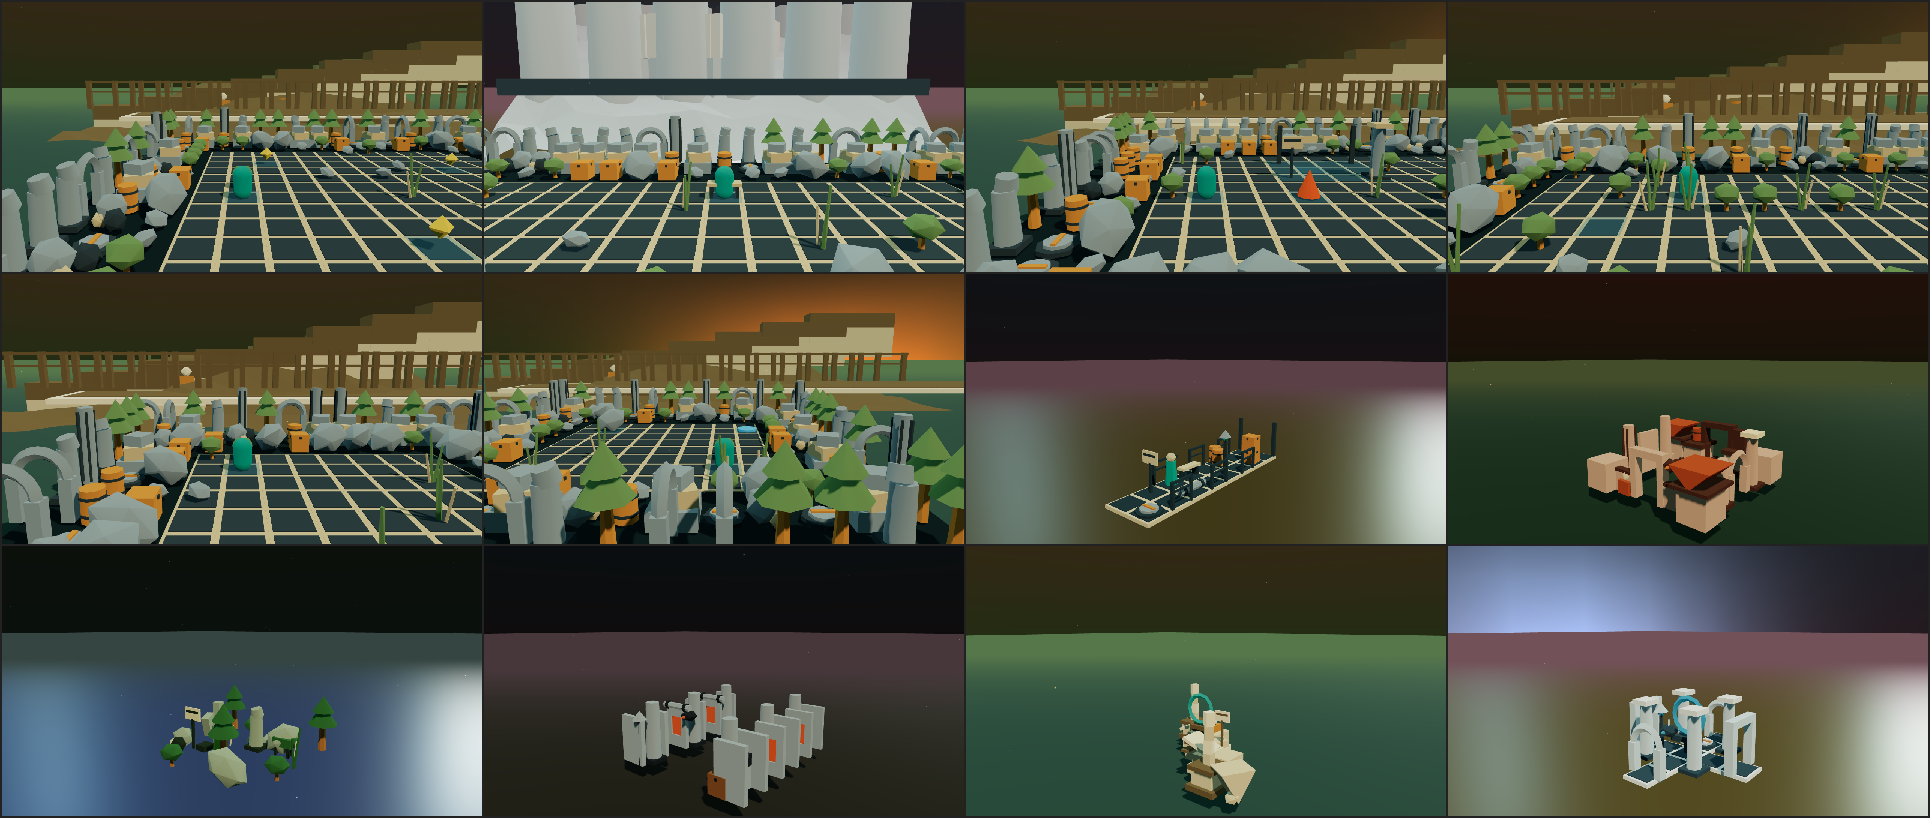
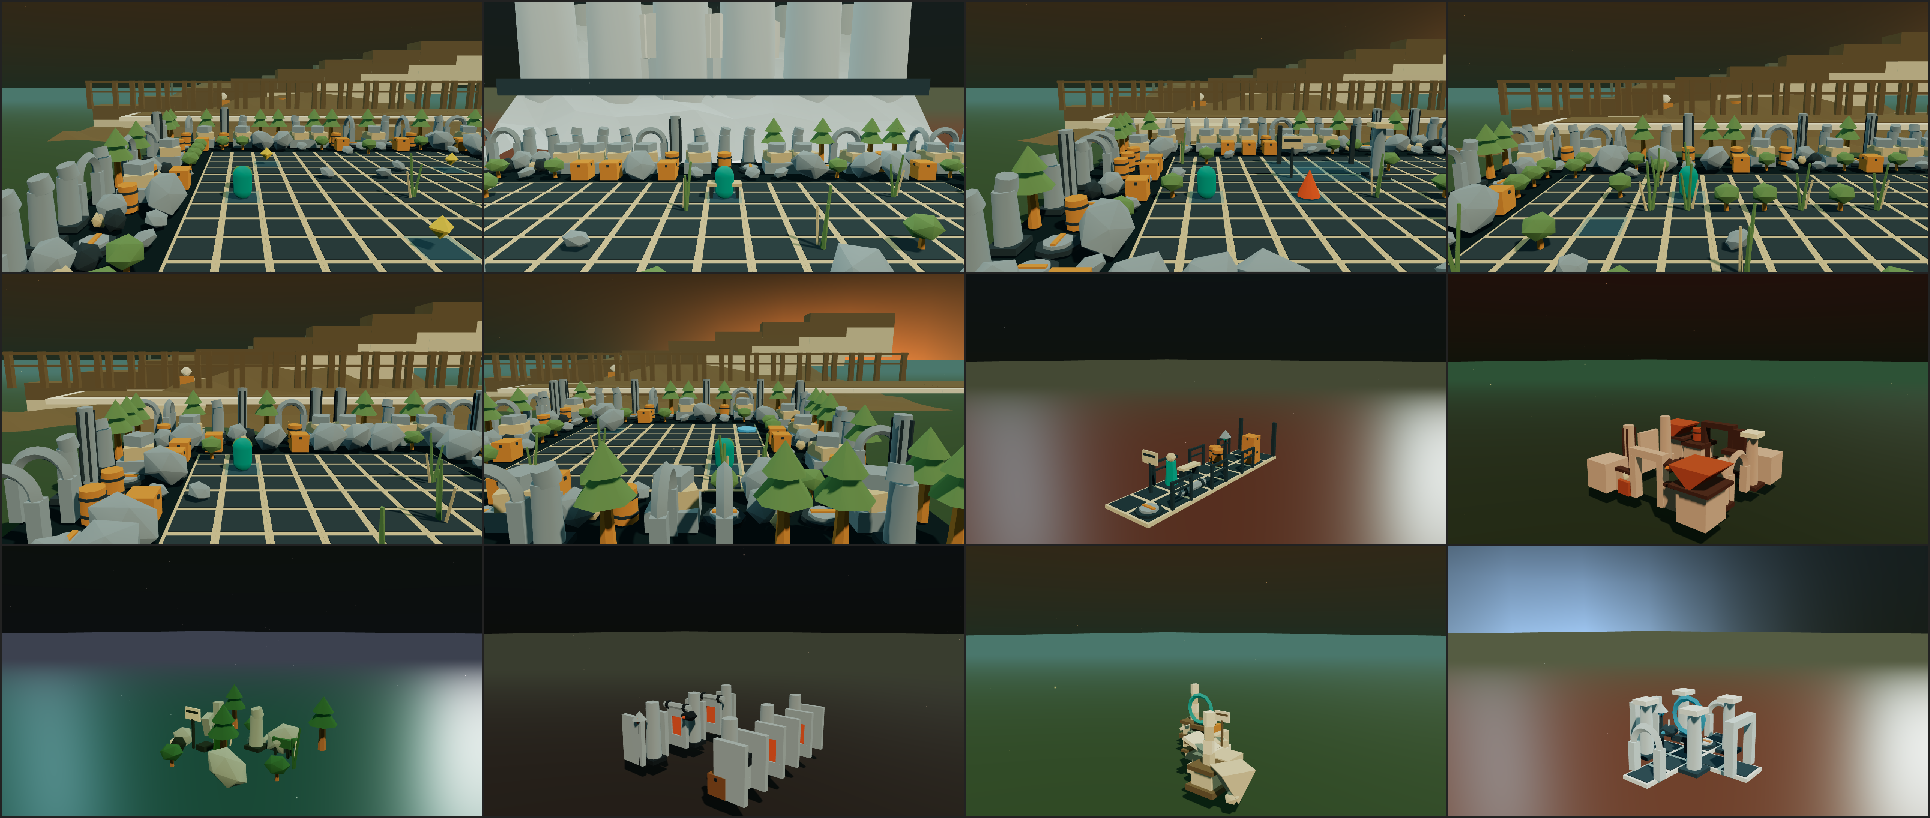
fix(look): keep the repair clear of plum, not just of purple
PURPLE_BAND (250-320) je zakaz pro cely repozitar. Oprava barvu ale sama vyrabi, a skoro sedou: sytost tlaci na ~0.22. Kos 11 (stred 345) je pri plne sytosti karmin, pri 0.22 zaprasena svestkova.

Videt na docs/contact-sheet.png: harbor-pier a foundry-hall mely pres tretinu snimku siroky sericovy pruh oparu. Proslo to PURPLE_BAND i vsemi peti prahy soudce - zadny stroj v repu to nemeri.

Prstenec se tim zuzil z devíti kosu na osm a rozestup barev spadl na 8.0, tedy na prah. Prohledano vsech patnact dvojic kroku: opar +4 / plocha +2 drzi 60 stupnu a dava 17.

diff --git a/src/worldstream/look-repair.ts b/src/worldstream/look-repair.ts
@@ -160,10 +160,27 @@ export function bucketCentre(bucket: number): number {
 }
 
 /**
- * Prstenec košů, do kterých oprava smí mířit — dvanáct minus ty, jejichž střed
- * padne do fialového pásma.
+ * Odstíny, na které oprava mířit nesmí — **širší pásmo než zákaz fialové**.
  *
- * **Počítá se, neopisuje se.** Kdyby tu stál ručně napsaný seznam devíti čísel,
+ * `PURPLE_BAND` (250–320°) je zákaz platný pro celý repozitář a soudí barvu
+ * jakoukoliv. Tohle pásmo je navíc a patří jen opravě, protože oprava barvu
+ * nejen posuzuje, ale sama vyrábí — a vyrábí ji **skoro šedou**: sytost tlačí
+ * na `minSaturation * MARGIN`, tedy kolem 0,22. Odstín 345° je při plné
+ * sytosti karmín, při 0,22 je to zaprášená švestková.
+ *
+ * **Naměřeno okem 29. 8. 2026 na `docs/contact-sheet.png`:** dokud tu koš 11
+ * (střed 345°) byl, měly `harbor-pier` a `foundry-hall` přes třetinu snímku
+ * široký šeříkový pruh oparu. Prošlo to `PURPLE_BAND` i všemi pěti prahy
+ * soudce — je to vlastnost, kterou žádný stroj v tomhle repu neměří, a
+ * porušovalo to barevné pravidlo projektu. Pásmo proto sahá až na konec kola.
+ */
+const REPAIR_HUE_BAN = { min: PURPLE_BAND.min, max: 360 } as const;
+
+/**
+ * Prstenec košů, do kterých oprava smí mířit — dvanáct minus ty, jejichž střed
+ * padne do zakázaného pásma.
+ *
+ * **Počítá se, neopisuje se.** Kdyby tu stál ručně napsaný seznam osmi čísel,
  * rozšíření `PURPLE_BAND` by ho nechalo být a oprava by fialovou vyrobila na
  * cestě, kterou nikdo ručně nepíše a nikdo se na ni nedívá.
  */
@@ -172,7 +189,7 @@ export const ALLOWED_HUE_BUCKETS: readonly number[] = Array.from(
   (_unused, bucket) => bucket,
 ).filter((bucket) => {
   const centre = bucketCentre(bucket);
-  return centre < PURPLE_BAND.min || centre > PURPLE_BAND.max;
+  return centre < REPAIR_HUE_BAN.min || centre > REPAIR_HUE_BAN.max;
 });
 
 /**
@@ -198,7 +215,12 @@ export const ALLOWED_HUE_BUCKETS: readonly number[] = Array.from(
  * kotvy rušily.
  *
  * **Která ze dvou zbylých ploch bere jeden krok a která dva, na rozestupu nic
- * nemění**; co mění, je pořadí pák, a to je naměřené (viz níž).
+ * nemění — na barvě snímku ano.** Naměřeno 29. 8. 2026 přes všech patnáct
+ * dvojic kroků a všech patnáct dvojic ze šesti palet: opar o **dva** kroky
+ * dál než plocha pod obzorem drží nejhorší dvojici na 9,9, opačné přiřazení
+ * na 8,8. Rozestup 60° splňuje obojí, takže se to nedá odvodit, jen změřit.
+ *
+ * Co jde odvodit, je pořadí pák, a to je naměřené zvlášť (viz níž).
  */
 export const HUE_STEP_BUCKETS = 2;
 
@@ -409,7 +431,7 @@ function hueAnchorsFor(skyColor: string): { sky: number; fog: number; floor: num
   const at = (steps: number) =>
     bucketCentre(ALLOWED_HUE_BUCKETS[(start + steps) % ALLOWED_HUE_BUCKETS.length]!);
 
-  return { sky: at(0), fog: at(HUE_STEP_BUCKETS), floor: at(HUE_STEP_BUCKETS * 2) };
+  return { sky: at(0), fog: at(HUE_STEP_BUCKETS * 2), floor: at(HUE_STEP_BUCKETS) };
 }
 
 /** Index nejbližšího povoleného koše, měřeno po kruhu odstínů. */

diff --git a/src/worldstream/__tests__/look-repair.test.ts b/src/worldstream/__tests__/look-repair.test.ts
@@ -241,20 +241,28 @@ describe('fialová se neopraví ani omylem', () => {
     }
   });
 
-  it('prstenec fialové koše vynechává, nezmenšuje se o ně jen počtem', () => {
-    // Mutace, kterou tenhle test zabíjí: prstenec sestavený jako `slice(0, 9)`
-    // má taky devět prvků a taky projde testem nad středy — ale vypustí koš 11
-    // (345°, ta nejteplejší červeň) a jeden fialový si nechá.
-    const purple = Array.from({ length: 360 / HUE_BUCKET_WIDTH }, (_unused, b) => b).filter((b) => {
-      const centre = bucketCentre(b);
-      return centre >= PURPLE_BAND.min && centre <= PURPLE_BAND.max;
-    });
-    expect(purple.length, 'fialové pásmo nepokrývá žádný koš, test nic neměří').toBeGreaterThan(0);
-    expect([...ALLOWED_HUE_BUCKETS].sort((a, b) => a - b)).toEqual(
-      Array.from({ length: 360 / HUE_BUCKET_WIDTH }, (_unused, b) => b).filter(
-        (b) => !purple.includes(b),
-      ),
-    );
+  it('prstenec sahá až po fialovou a ani o koš míň', () => {
+    // Dvě mutace naráz. Kdyby se prstenec jen usekl na počet, prošel by test
+    // nad středy taky — a kdyby se usekl o koš navíc, přišla by oprava o odstín,
+    // který jí nikdo nezakázal, a světy by se sbíhaly rychleji.
+    //
+    // Meze se **nečtou z modulu**, jsou napsané tady znovu: test, který si
+    // hranici půjčí od kódu, potvrdí každou hranici, kterou si kód zvolí.
+    const PLUM_FROM = 320;
+    for (const bucket of ALLOWED_HUE_BUCKETS) {
+      const centre = bucketCentre(bucket);
+      expect(centre, 'koš ' + String(bucket) + ' míří do fialové').toBeLessThan(PURPLE_BAND.min);
+      expect(centre, 'koš ' + String(bucket) + ' míří za fialovou, do švestkové').toBeLessThan(
+        PLUM_FROM,
+      );
+    }
+    for (let bucket = 0; bucket < 360 / HUE_BUCKET_WIDTH; bucket += 1) {
+      if (bucketCentre(bucket) >= PURPLE_BAND.min) continue;
+      expect(
+        ALLOWED_HUE_BUCKETS,
+        'koš ' + String(bucket) + ' (' + String(bucketCentre(bucket)) + '°) nikdo nezakázal',
+      ).toContain(bucket);
+    }
   });
 
   it('ani jedna barva žádného opraveného světa nesahá do fialové', () => {
